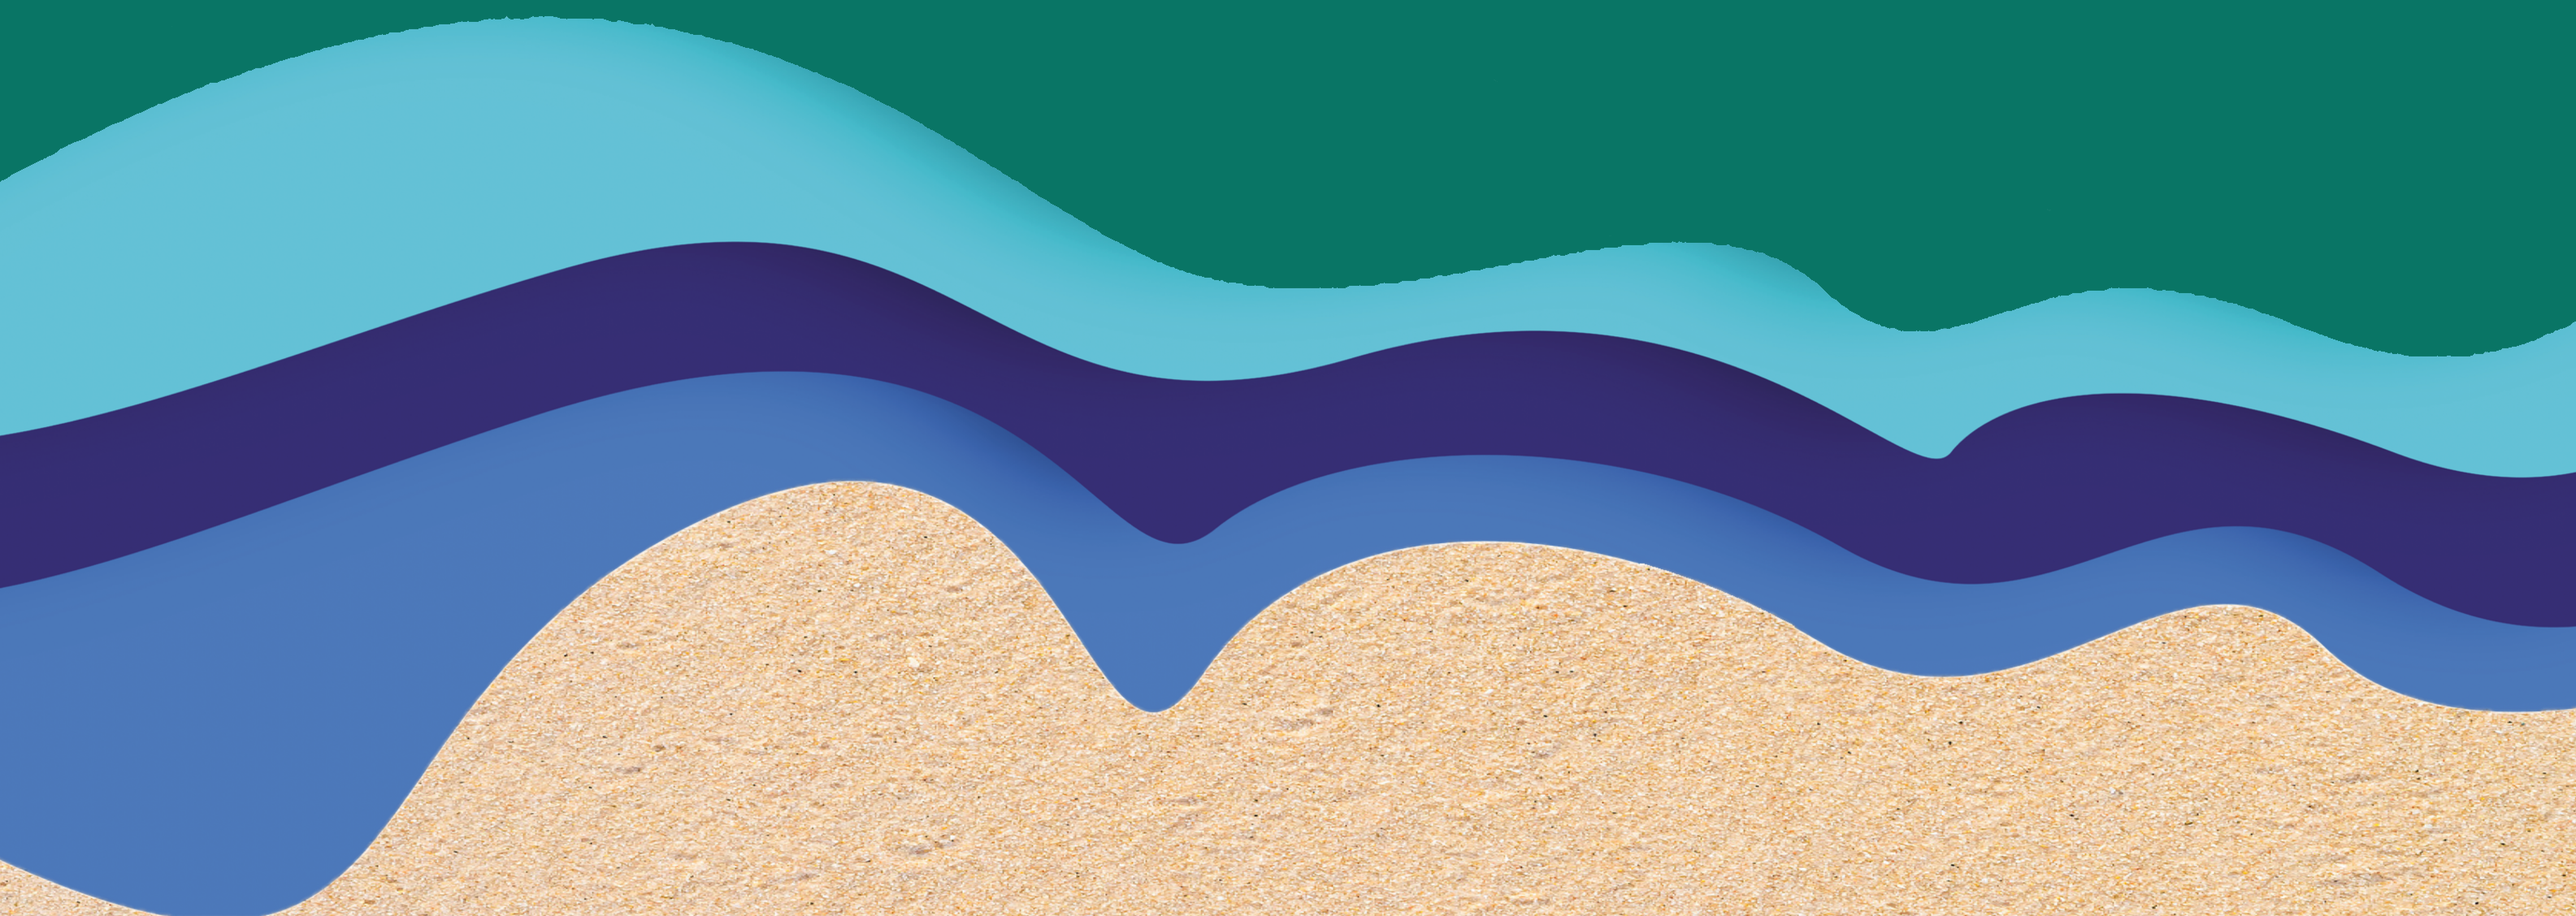
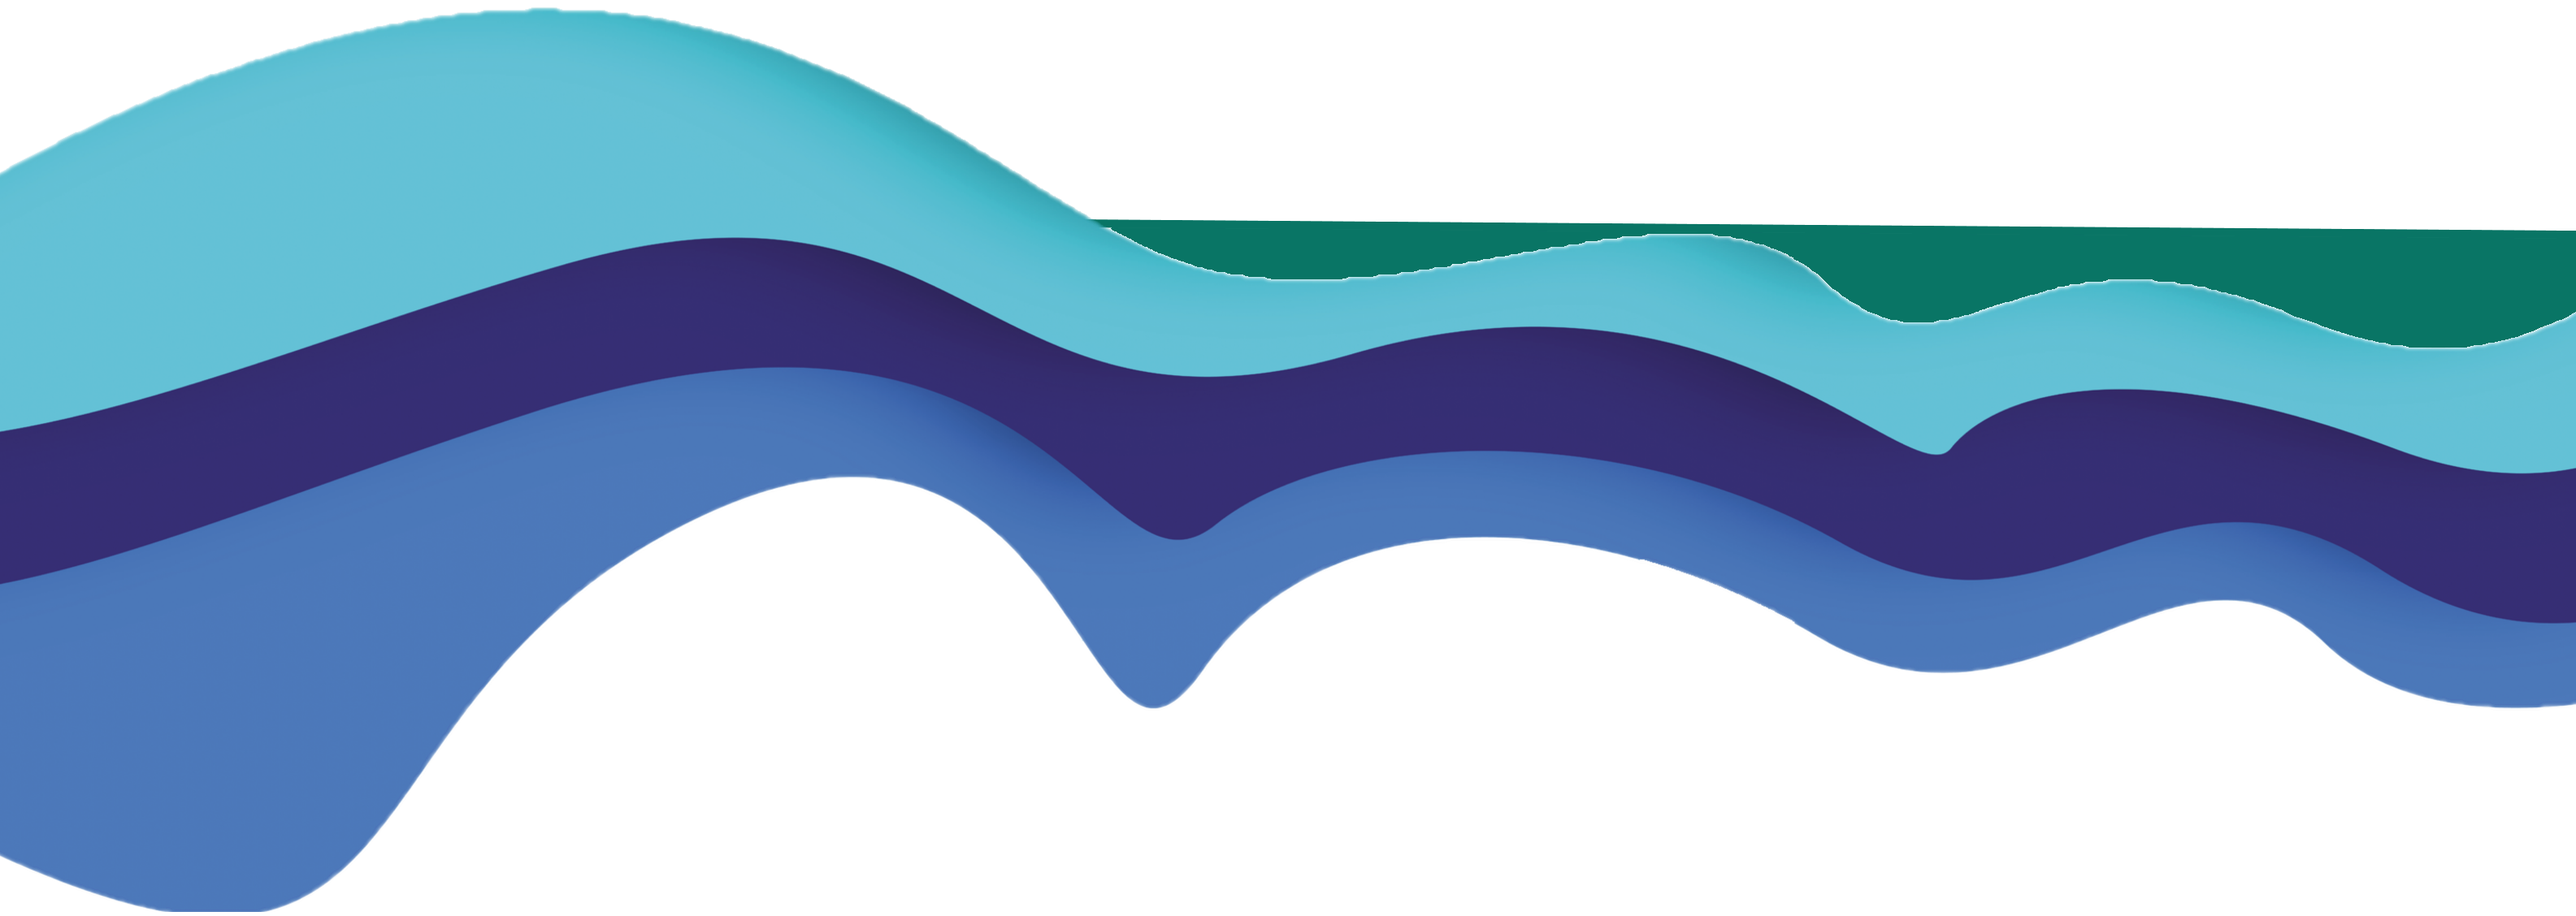
Applied improvements to wave component and dropdown

diff --git a/src/style-sheets/Accordion.css b/src/style-sheets/Accordion.css
@@ -21,20 +21,35 @@
     cursor: pointer;
 }
 
-.content {
-    right: 0;
-    position: relative;
-    top: -5%;
-    opacity: 0; 
-    transition: all 1s;
+@keyframes opacity-off {
+    from {opacity: 1}
+    to {opacity: 0}
 }
 
+@keyframes opacity-on {
+    from {opacity: 0}
+    to {opacity: 1}
+}
 
-.content-show{
-    position: relative;
-    top: 0%;
+.content {  
+    animation-name: opacity-off; 
+    opacity: 0;
+}
+
+.content-show{  
+    animation-name: opacity-on;
     opacity: 1;
-    transition: all 1s;
+}
+
+.content, .content-show {
+    background-image: url('../assets/arena.jpg');
+    position: absolute;
+    width: 220px;
+    animation-duration: 1s;
+    border-radius: 5px;
+    z-index: 1;
+    border: 2px solid #555150;
+    padding: 0px 2px;
 }
 
 .content p, .content-show p {
@@ -42,3 +57,9 @@
     font-weight: bold;
     color: black; 
   }
+
+@media (max-width: 767.98px) {
+    .content, .content-show {
+        right: 20%;
+    }
+}

diff --git a/src/style-sheets/Waves.css b/src/style-sheets/Waves.css
@@ -2,15 +2,15 @@ img.waves {
     width: 100%;
     height: 250px !important;
     position: absolute;
-    bottom: -19.9vh;
+    bottom: -24.6vh;
     z-index: 2;
 }
 
 @media (max-width: 767.98px) {
     img.waves {
         position: absolute;
-        bottom: -86.6vh;
-        height: 158px !important;
+        bottom: -87vh;
+        height: 155px !important;
     }
 }
 
@@ -18,14 +18,14 @@ img.waves {
     img.waves {
         position: absolute;
         top: 64.8vh;
-        height: 135px !important;
+        height: 155px !important;
     }
 }
 
 @media (min-width: 1024px) and (max-width: 1439.98px) {
     img.waves {
         position: absolute;
-        top: 86.20vh;
-        height: 190px !important;
+        top: 88.5vh;
+        height: 200px !important;
     }
 }

diff --git a/src/style-sheets/More.css b/src/style-sheets/More.css
@@ -52,7 +52,8 @@
     }
     .random-image {
       width: 100%;
-      margin-top: 10%;
+      height: 100%;
+      margin-top: 15%;
     }
     .title {
       justify-content: space-around !important;

diff --git a/src/style-sheets/Hero.css b/src/style-sheets/Hero.css
@@ -174,7 +174,7 @@
     #mujer {
       top: 36px;
       width: 100vw;
-      height: 44.5vh;
+      height: 44.4vh;
     }
   }
 
